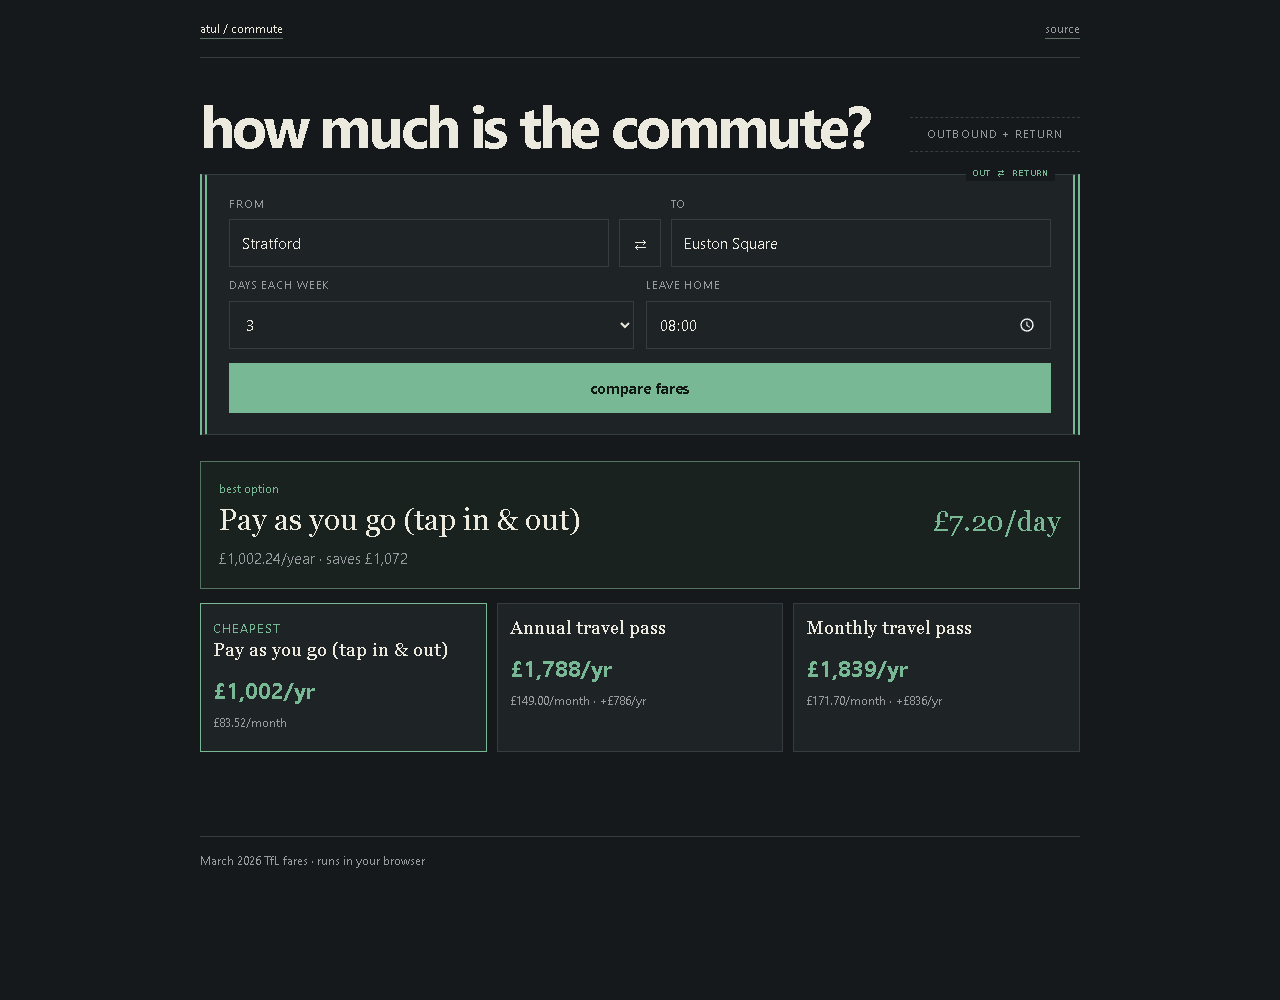
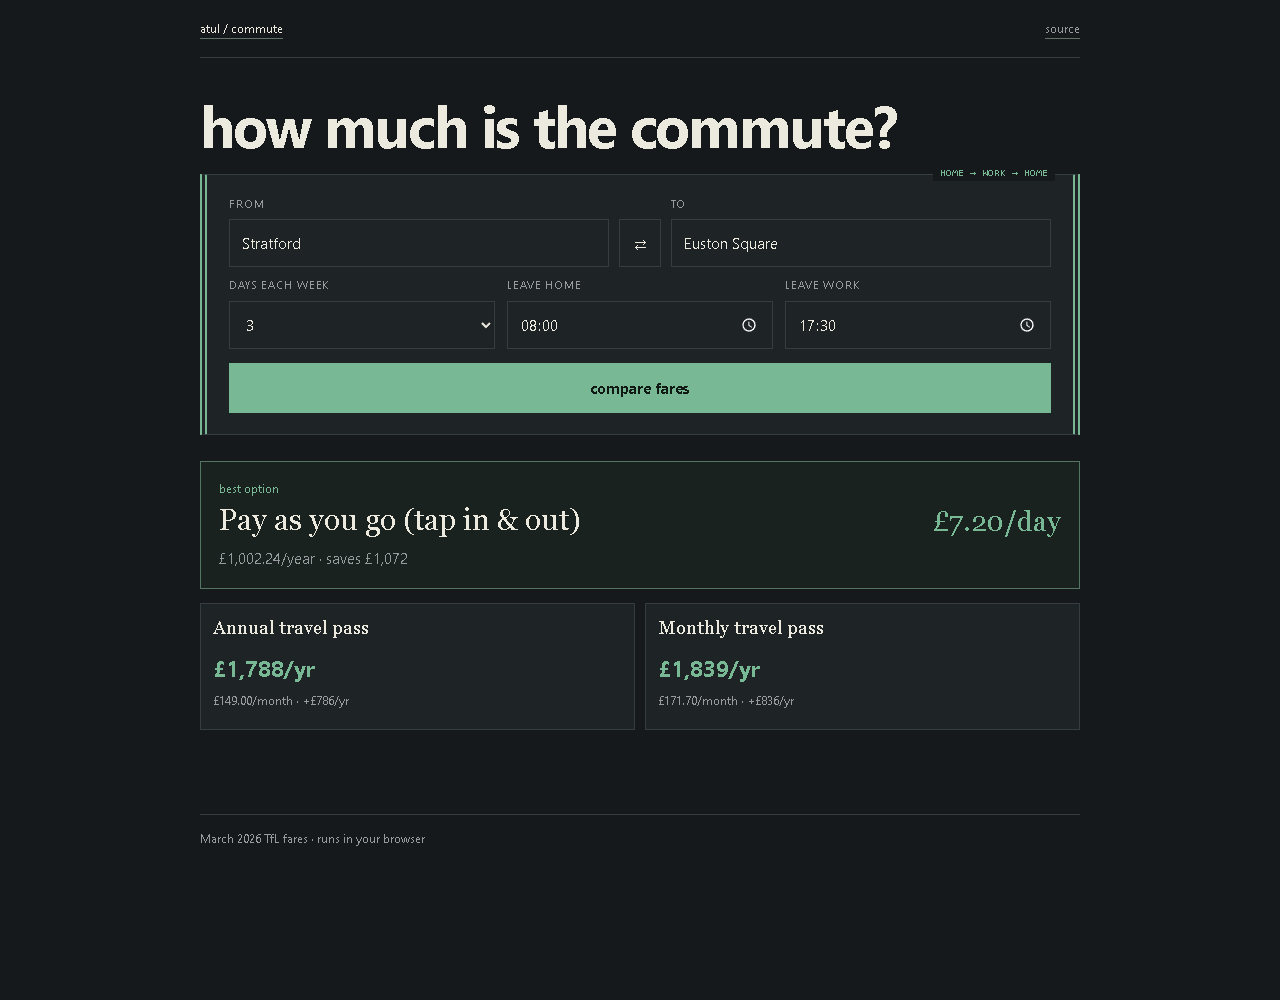
Make the commute demo a true round trip

diff --git a/examples/portfolio/index.html b/examples/portfolio/index.html
@@ -1,5 +1,5 @@
 <!doctype html>
-<html lang="en-GB"><head><meta charset="utf-8"><meta name="viewport" content="width=device-width,initial-scale=1"><title>commute cost optimiser</title>
+<html lang="en-GB"><head><meta charset="utf-8"><meta name="viewport" content="width=device-width,initial-scale=1"><title>commute cost optimiser</title><link rel="icon" href="favicon.svg" type="image/svg+xml">
 <style>
 :root{color-scheme:dark;--bg:#15191c;--ink:#ece9df;--muted:#979b9d;--line:#363d40;--green:#79b895;--quiet:#1e2426}*{box-sizing:border-box}body{margin:0;background:var(--bg);color:var(--ink);font:15px/1.5 "Segoe UI",Arial,sans-serif}a{color:inherit;text-decoration-color:#617269;text-underline-offset:5px}button,input,select{font:inherit;color:inherit;border-radius:0}:focus-visible{outline:2px solid var(--green);outline-offset:3px}[hidden],.support{display:none!important}.top,main{width:min(880px,calc(100% - 48px));margin:auto}.top{height:68px;display:flex;align-items:center;justify-content:space-between;border-bottom:1px solid var(--line);font-size:12px}.top nav{display:flex;gap:22px;color:var(--muted)}main{padding:68px 0}.hero p{margin:0 0 10px;color:var(--muted);font-size:11px;letter-spacing:.1em;text-transform:uppercase}.hero h1{margin:0 0 48px;font:54px/.97 Georgia,serif;font-weight:400;letter-spacing:-.04em}.hero em{color:var(--green);font-weight:400}.planner{border-block:1px solid var(--line);padding:26px 0}.srow{display:grid;grid-template-columns:1fr 42px 1fr;align-items:end;gap:10px}.fg label{display:block;margin-bottom:7px;color:var(--muted);font-size:11px;letter-spacing:.08em;text-transform:uppercase}.si{width:100%;min-height:48px;padding:10px 12px;border:1px solid var(--line);background:var(--quiet)}.swap{width:42px;height:48px;border:1px solid var(--line);background:transparent}.compact{display:grid;grid-template-columns:1fr 1fr;gap:12px;margin-top:14px}.go-btn{width:100%;min-height:50px;margin-top:18px;border:1px solid var(--green);background:var(--green);color:#111915;font-weight:700}.go-btn.disabled{opacity:.4}.jbar{margin-top:10px;color:var(--muted);font-size:12px}.results{display:none;margin-top:38px}.results.vis{display:block}.results-shell{display:grid;gap:14px}.reco{padding:24px;border:1px solid #547562;background:#19221e}.reco h2,.reco h3,.reco p{margin-top:0}.g-cards{display:grid;grid-template-columns:repeat(3,1fr);gap:10px}.ocard{padding:15px;border:1px solid var(--line);background:var(--quiet)}.ocard.best{border-color:var(--green)}.ocard h3,.ocard p{margin:0 0 7px}.ocard .price,.reco .price{color:var(--green);font-size:22px;font-weight:700}.save-badge,.winner-badge{color:var(--green);font-size:12px}.results .section{margin:0}.results .section:not(.results-shell){display:none!important}.results>#timeTip,.results>#rcTip,.results>#switchBanner{display:none!important}.action-btns{display:none!important}.acd{position:absolute;z-index:5;background:var(--quiet);border:1px solid var(--line);max-height:220px;overflow:auto}.fg{position:relative}.aci{padding:8px 10px;cursor:pointer}.aci:hover{background:#293034}.zvis span{margin-right:7px}.jerr{color:#d69280;font-size:12px}footer{width:min(880px,calc(100% - 48px));margin:50px auto 0;padding:20px 0;border-top:1px solid var(--line);color:var(--muted);font-size:12px}@media(max-width:650px){.top,main,footer{width:calc(100% - 30px)}.top{height:58px}main{padding:46px 0}.hero h1{font-size:clamp(40px,13vw,53px)}.srow{grid-template-columns:1fr 38px 1fr}.compact{grid-template-columns:1fr}.g-cards{grid-template-columns:1fr}.reco{padding:18px}}@media(prefers-reduced-motion:reduce){*{animation:none!important;transition:none!important}}
 </style><style>
@@ -8,20 +8,20 @@
 </style><link rel="stylesheet" href="identity.css"></head><body>
 <header class="top"><a href="https://lolstar123.github.io/just-a-little-further/">atul / commute</a><nav><a href="https://github.com/LolStar123/london-commute-calculator">source</a></nav></header>
 <main>
-<section class="hero"><p>outbound + return</p><h1>how much is the commute?</h1></section>
+<section class="hero"><h1>how much is the commute?</h1></section>
 <section class="planner">
 <div class="srow">
 <div class="fg"><label for="fromStation">from</label><input class="si" id="fromStation" autocomplete="off"><div class="acd" id="fromDD"></div></div>
 <button class="swap" id="swapBtn" type="button" aria-label="Swap stations">⇄</button>
 <div class="fg"><label for="toStation">to</label><input class="si" id="toStation" autocomplete="off"><div class="acd" id="toDD"></div></div>
 </div>
-<div class="compact"><div class="fg"><label for="days">days each week</label><select class="si" id="days"><option value="1">1</option><option value="2">2</option><option value="3" selected>3</option><option value="4">4</option><option value="5">5</option></select></div><div class="fg"><label for="dept">leave home</label><input class="si" type="time" id="dept" value="08:00"></div></div>
+<div class="compact"><div class="fg"><label for="days">days each week</label><select class="si" id="days"><option value="1">1</option><option value="2">2</option><option value="3" selected>3</option><option value="4">4</option><option value="5">5</option></select></div><div class="fg"><label for="dept">leave home</label><input class="si" type="time" id="dept" value="08:00"></div><div class="fg"><label for="ret">leave work</label><input class="si" type="time" id="ret" value="17:30"></div></div>
 <div id="jbar" class="jbar"><div id="zvis"></div><div id="fprev"></div></div><div id="jerr" class="jerr"></div>
 <button class="go-btn" id="goBtn" type="button">compare fares</button><div id="goHint"></div>
 </section>
 <div class="results" id="res" aria-live="polite"><section class="section results-shell"><div class="reco" id="reco"></div><div class="g-cards" id="oGrid"></div></section><div id="switchBanner"></div><div id="timeTip"></div><div id="rcTip"></div>
 <div class="support">
-<select id="trips"><option value="2" selected>2</option></select><input id="ret" type="time" value="17:30"><select id="bus"><option value="0" selected>0</option></select><input id="leave" value="5.6"><select id="rc"><option value="none" selected>none</option></select><input id="sal"><select id="curMethod"><option value="unknown" selected>unknown</option></select>
+<select id="trips"><option value="2" selected>2</option></select><select id="bus"><option value="0" selected>0</option></select><input id="leave" value="5.6"><select id="rc"><option value="none" selected>none</option></select><input id="sal"><select id="curMethod"><option value="unknown" selected>unknown</option></select>
 <span id="mInd"></span><span id="eInd"></span><div id="teaser"></div><div id="tips"></div><div id="wfhBars"></div><div id="beSection"></div><div id="beChart"></div><div id="beCrossover"></div><div id="driveSection"></div><div id="dComp"></div><div id="cycSection"></div><div id="cycGrid"></div><div id="mbar"></div><div id="mbarLabel"></div><div id="loanSec"></div><div id="loanBox"></div><div id="fstats"></div><div id="htbSteps"></div><div id="faq"></div><div id="closingText"></div><button id="ctaPrint"></button><div id="tableWrap"><table><tbody id="tbody"></tbody></table></div><button id="recalcBtn"></button><button id="printBtn"></button><button id="shareBtn"></button><button id="resetBtn"></button><button id="btt"></button><div id="ps1"></div><div id="ps2"></div><div id="ps3"></div><div id="pl1"></div><div id="pl2"></div>
 </div></div>
 </main><footer>March 2026 TfL fares · runs in your browser</footer>
@@ -1275,11 +1275,10 @@
                     recoEl.innerHTML = `<div class="winner-badge">best option</div><h2>${LABELS[cheap.name]}</h2><div class="price">£${dailyCost}/day</div><p>£${cheap.annual.toLocaleString()}/year${savings > 0 ? ` · saves £${savings.toLocaleString()}` : ""}</p>`;
 
                     // Cards
-                    document.getElementById("oGrid").innerHTML = res.slice(0, 3)
+                    document.getElementById("oGrid").innerHTML = res.slice(1, 3)
                         .map((r, i) => {
                             const diff = r.annual - cheap.annual;
-                            const best = i === 0;
-                            return `<article class="ocard ${best ? "best" : ""}" data-idx="${i}" tabindex="0">${best ? "<small>cheapest</small>" : ""}<h3>${LABELS[r.name]}</h3><p class="price">£${r.annual.toLocaleString("en-GB", {maximumFractionDigits: 0})}/yr</p><p>£${r.monthly.toFixed(2)}/month${best ? "" : ` · +£${diff.toFixed(0)}/yr`}</p></article>`;
+                            return `<article class="ocard" data-idx="${i + 1}" tabindex="0"><h3>${LABELS[r.name]}</h3><p class="price">£${r.annual.toLocaleString("en-GB", {maximumFractionDigits: 0})}/yr</p><p>£${r.monthly.toFixed(2)}/month · +£${diff.toFixed(0)}/yr</p></article>`;
                         })
                         .join("");
                     // Card click â†’ scroll to breakdown row

diff --git a/examples/portfolio/identity.css b/examples/portfolio/identity.css
@@ -1,2 +1,16 @@
-/* return ticket: two endpoints feeding one fare decision */
-body{font-family:"Segoe UI",Arial,sans-serif}.top{height:58px}main{padding:40px 0 48px}.hero{display:grid;grid-template-columns:1fr 170px;align-items:end;margin-bottom:22px}.hero p{grid-column:2;grid-row:1;margin:0;padding:8px 0;border-block:1px dashed var(--line);text-align:center}.hero h1{grid-column:1;grid-row:1;margin:0;font:750 clamp(40px,6vw,58px)/.93 "Segoe UI",Arial,sans-serif;letter-spacing:-.055em}.planner{position:relative;padding:21px 22px;border:1px solid var(--line);border-inline:7px double var(--green);background:var(--quiet)}.planner:before{content:"OUT  ⇄  RETURN";position:absolute;top:-9px;right:18px;padding:0 7px;background:var(--bg);color:var(--green);font:10px/1.5 ui-monospace,Consolas,monospace;letter-spacing:.1em}.compact{margin-top:10px}.go-btn{margin-top:14px}.results{margin-top:26px}.reco{padding:18px}.ocard{padding:12px}footer{margin-top:36px;padding-block:15px}@media(max-width:650px){main{padding:32px 0 40px}.hero{display:block}.hero p{width:max-content;margin-bottom:9px;padding:0;border:0}.hero h1{font-size:40px}.planner{padding:18px 13px;border-inline-width:4px}.srow{grid-template-columns:1fr 36px 1fr}.si{padding-inline:8px}}
+/* Return ticket: two endpoints and both legs feeding one fare decision. */
+body{font-family:"Segoe UI",Arial,sans-serif}
+.top{height:58px}
+main{padding:40px 0 48px}
+.hero{margin-bottom:22px}
+.hero h1{margin:0;font:750 clamp(40px,6vw,58px)/.93 "Segoe UI",Arial,sans-serif;letter-spacing:-.035em}
+.planner{position:relative;padding:21px 22px;border:1px solid var(--line);border-inline:7px double var(--green);background:var(--quiet)}
+.planner:before{content:"HOME  \2192  WORK  \2192  HOME";position:absolute;top:-9px;right:18px;padding:0 7px;background:var(--bg);color:var(--green);font:10px/1.5 ui-monospace,Consolas,monospace;letter-spacing:.1em}
+.compact{grid-template-columns:repeat(3,1fr);margin-top:10px}
+.go-btn{margin-top:14px}
+.results{margin-top:26px}
+.reco{padding:18px}
+.g-cards{grid-template-columns:repeat(2,1fr)}
+.ocard{padding:12px}
+footer{margin-top:36px;padding-block:15px}
+@media(max-width:650px){main{padding:32px 0 40px}.hero h1{font-size:40px}.planner{padding:18px 13px;border-inline-width:4px}.srow{grid-template-columns:1fr 36px 1fr}.compact{grid-template-columns:1fr 1fr}.compact .fg:first-child{grid-column:1/-1}.si{padding-inline:8px}}

diff --git a/tools/browser_audit.py b/tools/browser_audit.py
@@ -16,7 +16,8 @@ try:
         page=browser.new_page(viewport={'width':1280,'height':1000},reduced_motion='reduce')
         errors=[];page.on('pageerror',lambda e:errors.append(str(e)))
         page.goto(os.environ.get('AUDIT_URL',f'http://127.0.0.1:{server.server_port}'),wait_until='networkidle')
-        assert 'outbound + return' in page.locator('.hero p').inner_text().lower()
+        assert page.locator('#ret').is_visible()
+        assert page.locator('#ret').input_value() == '17:30'
         assert page.locator('#trips').input_value() == '2'
         page.wait_for_selector('#res.vis')
         assert page.locator('#fromStation').input_value()=='Stratford'
@@ -26,6 +27,10 @@ try:
         page.wait_for_function("expected => document.querySelector('#mbarLabel').innerText!==expected",arg=before)
         page.locator('#days').select_option('3');page.locator('#goBtn').click()
         page.wait_for_function("expected => document.querySelector('#mbarLabel').innerText===expected",arg=before)
+        fare_before=page.locator('#reco').inner_text()
+        page.locator('#ret').fill('20:00');page.locator('#goBtn').click()
+        page.wait_for_function("expected => document.querySelector('#reco').innerText!==expected",arg=fare_before)
+        page.locator('#ret').fill('17:30');page.locator('#goBtn').click()
         page.locator('#fromStation').fill('Nonexistent station')
         assert not page.locator('#res').is_visible()
         assert 'disabled' in page.locator('#goBtn').get_attribute('class')

diff --git a/README.md b/README.md
@@ -2,9 +2,9 @@
 
 **[Open the full calculator](https://lolstar123.github.io/london-commute-calculator/)** | [Application source](examples/portfolio/index.html) | [Station database](examples/portfolio/london-stations.js)
 
-The original, complete commute calculator. Choose real London stations, the days and times
-you travel, a Railcard and annual leave. Compare PAYG, daily/weekly caps, weekly/monthly/annual
-Travelcards, break-even travel days, working-from-home savings and a season-ticket loan.
+Choose real London stations, the days you commute and the times you leave home and work.
+The public calculator prices both legs, then compares PAYG and weekly, monthly and annual
+passes. The original advanced calculator is retained in [`original/`](original/).
 
 <img src="examples/portfolio/preview.png" alt="Commute calculator with a populated Stratford to Euston Square journey" width="900">
 
@@ -24,4 +24,4 @@ a live fare quotation. Check current TfL fares before buying; exact routes and N
 journeys can differ. The default Stratford / Euston Square journey is a starting example,
 not a claim about Atul's commute.
 
-The old five-input demonstration has been replaced by the actual application.
+The recommendation is deliberately compact: one cheapest option and its two nearest alternatives.

diff --git a/DESIGN.md b/DESIGN.md
@@ -1,0 +1,10 @@
+# Commute cost optimiser design
+
+The demo should answer one question quickly: what is the cheapest way to pay for a regular round trip?
+
+- Treat the planner as a return ticket, with home, work and home again stated on the ticket edge.
+- Keep both travel times visible. The return leg materially changes peak and off-peak pricing.
+- Show the recommendation first, then only the two closest alternatives.
+- Use the muted green of old ticket stock as the sole accent against a quiet charcoal ground.
+- Preserve real station lookup, fare tables, caps and passes. Do not imply live fare data.
+- Keep advanced assumptions in the underlying calculator without making the first decision harder to read.

diff --git a/examples/portfolio/README.md b/examples/portfolio/README.md
@@ -2,7 +2,7 @@
 
 [Open the full calculator](https://lolstar123.github.io/london-commute-calculator/) | [application source](index.html) | [station database](london-stations.js)
 
-Choose your stations, travel times and working week. Compare PAYG caps with Travelcards, then include Railcards, annual leave and season-ticket financing. Print or copy the comparison.
+Choose your stations, both travel times and working week. The focused public calculator compares PAYG with weekly, monthly and annual passes, then shows the cheapest answer and two alternatives.
 
 The app uses the original station database and March 2026 fare table. Inputs stay in the browser. These are dated fare assumptions, not a live quotation.
 
